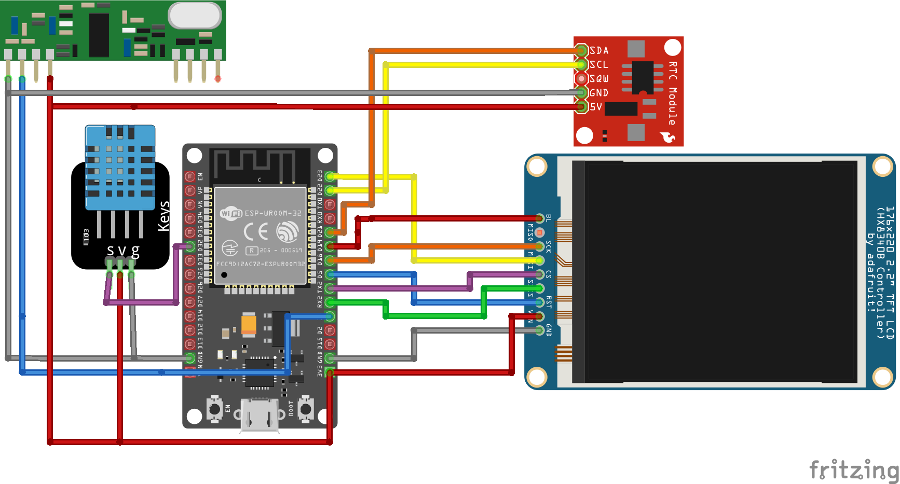
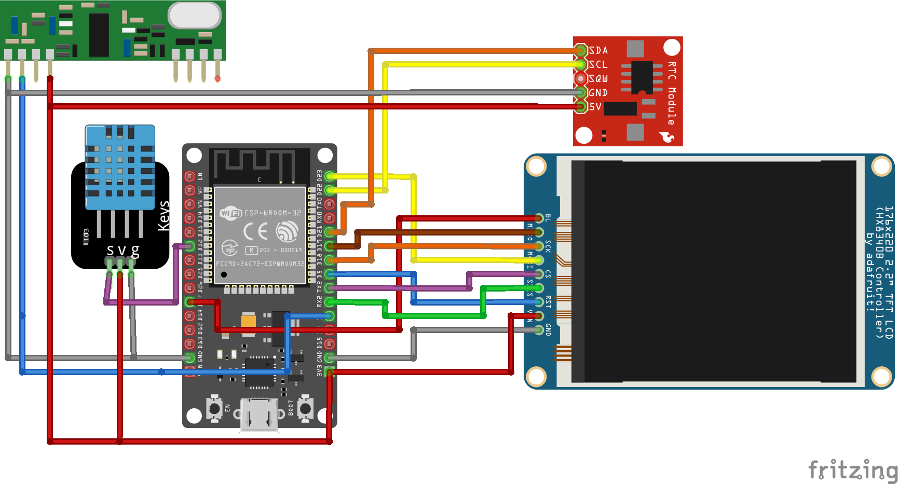
README.md: WIP

diff --git a/README.md b/README.md
@@ -57,8 +57,9 @@ The whole circuit can be built using a few modules:
 | ------ | ------ |
 | TFT module DC pin | 16 |
 | TFT module CS pin| 17 |
-| TFT module LED pin | 19 |
+| TFT module LED pin | 27 |
 | TFT module SCK pin | 18 |
+| TFT module MISO pin | 19 |
 | TFT module MOSI pin | 23 |
 | TFT module RST pin | 5 |
 | DHT Data pin | 32 |
@@ -121,7 +122,7 @@ You will need to configure your API Key and city name (in OpenWeather's format, 
 
 When you power on your *WStation* device for the first time, the device will act as an Access Point, creating the WiFi Network *WStation*. Connect to this network using the parameters shown on the screen:
 
-![WStation first screen](/resources/misc/wsinit.png)
+![WStation first screen](/resources/misc/ws_s0.png)
 
 | Setting | Default value |
 | ------ | ------ |
@@ -133,6 +134,14 @@ When you power on your *WStation* device for the first time, the device will act
 Access device web interface to configure your API Key, City, WiFi network, etc. When the setup is done, click on the button *Save configuration*. That's it! Your *WStation* device is ready to work!
 
 ![WStation Web Interface](/resources/misc/webgui.jpg)
+
+### Resseting to factory settings
+
+Any *WStation* device can be redefined to factory settings by pressing and holding the *BOOT* button for 6 seconds or through the web interface.
+
+### Screenshots of WStation interface
+
+![WStation screenshot 1](/resources/misc/ws_s1.png)
 
 ## Bug reports
 
